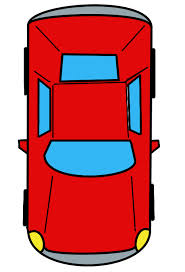
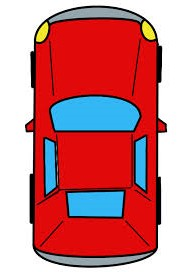
Made road move relative to the bus. Regenerative road works. Rotated Cars image to face the same direction as the bus.

diff --git a/DontBeLate/core/src/com/comp4920/dbl/gameworld/GameRenderer.java b/DontBeLate/core/src/com/comp4920/dbl/gameworld/GameRenderer.java
@@ -35,6 +35,8 @@ public class GameRenderer {
 	private static float lastCarTime;
 
 	public TextureRegion road;
+	int roadStart1;
+	int roadStart2;
 	
 	public GameRenderer(GameWorld world, int gameWidth, int midPointX) {
 		myWorld = world;
@@ -65,8 +67,18 @@ public class GameRenderer {
 		// Disable transparency
 //		batch.disableBlending();
 
-		//draw road
-		batch.draw(road ,0, 0, 300, 400);
+
+		//increment based on bus forward speed
+		roadStart1+=5; //speed is (1/60fps)
+		roadStart2+=5;
+		//wrap around
+		roadStart1 = ((roadStart1+400)%800) - 400;
+		roadStart2 = ((roadStart2+400)%800) - 400;
+		
+		//draw road 1
+		batch.draw(road ,0, roadStart1, 300, 400);
+		//draw road 2
+		batch.draw(road ,0, roadStart2, 300, 400);
 		
 		//draw bus
 		batch.draw(busAnimation.getKeyFrame(runTime),
@@ -115,6 +127,8 @@ public class GameRenderer {
 		bus = myWorld.getBus();
 		cars = myWorld.getCars();
 		lastCarTime = 0;
+		roadStart1 = -400;
+		roadStart2 = 0;
 	}
 	
 	private void initAssets() {
